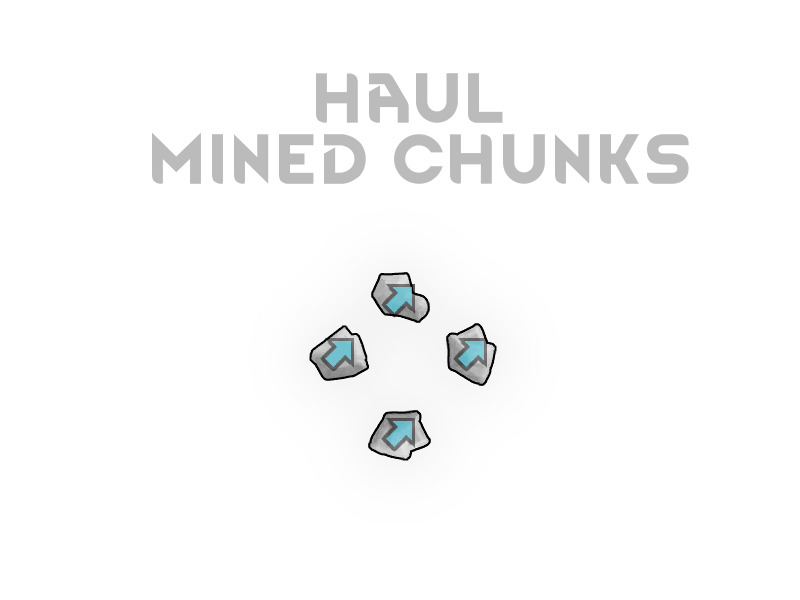
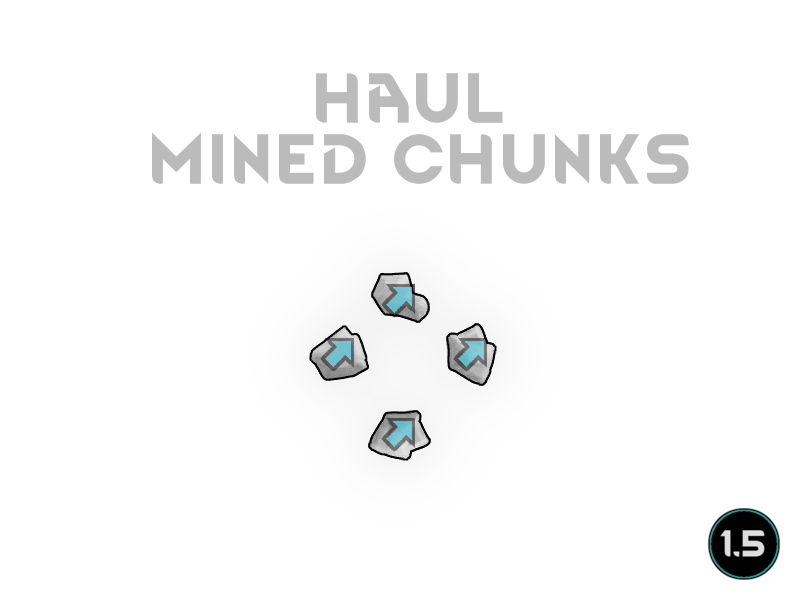
Mod updated for 1.5 and passed autotests

Changed region(s): [[0.875, 0.84, 1.0, 0.99]]

diff --git a/Source/HaulMinedChunks/HaulMinedChunksMod.cs b/Source/HaulMinedChunks/HaulMinedChunksMod.cs
@@ -27,7 +27,7 @@ internal class HaulMinedChunksMod : Mod
     {
         instance = this;
         currentVersion =
-            VersionFromManifest.GetVersionFromModMetaData(ModLister.GetActiveModWithIdentifier("Mlie.HaulMinedChunks"));
+            VersionFromManifest.GetVersionFromModMetaData(content.ModMetaData);
     }
 
     /// <summary>

diff --git a/Source/HaulMinedChunks/Mineable_TrySpawnYield.cs b/Source/HaulMinedChunks/Mineable_TrySpawnYield.cs
@@ -5,7 +5,7 @@ using Verse;
 
 namespace HaulMinedChunks;
 
-[HarmonyPatch(typeof(Mineable), "TrySpawnYield")]
+[HarmonyPatch(typeof(Mineable), "TrySpawnYield", typeof(Map), typeof(bool), typeof(Pawn))]
 internal class Mineable_TrySpawnYield
 {
     private static void Postfix(Mineable __instance, Map map, Pawn pawn)

diff --git a/README.md b/README.md
@@ -1,6 +1,6 @@
 # HaulMinedChunks
 
-![Image](https://i.imgur.com/buuPQel.png)
+![Image](https://i.imgur.com/iCj5o7O.png)
 
 
 Will mark stone-chunks to be hauled when they spawn from mining.
@@ -16,24 +16,26 @@ Safe to add/remove anytime
 Chunks spawn on a random place around the miner there is no simple way of knowing if they spawned from the miner.
 You can however solve it pretty simple by adding a stockpile-zone around the drill that do not accept anything. Any chunk that spawns will then be in the "wrong" zone and will be hauled directly.
 
-![Image](https://i.imgur.com/O0IIlYj.png)
+![Image](https://i.imgur.com/Ds0rBAD.png)
 
 Since modding is just a hobby for me I expect no donations to keep modding. If you still want to show your support you can gift me anything from my https://store.steampowered.com/wishlist/id/Mlie]Wishlist or buy me a cup of tea.
 
-https://ko-fi.com/G2G55DDYD]![Image](https://i.imgur.com/Utx6OIH.png)
+https://ko-fi.com/G2G55DDYD]![Image](https://i.imgur.com/VWG0yff.png)
 
 
-![Image](https://i.imgur.com/PwoNOj4.png)
+![Image](https://i.imgur.com/5xwDG6H.png)
 
 
 
 -  See if the the error persists if you just have this mod and its requirements active.
 -  If not, try adding your other mods until it happens again.
--  Post your error-log using https://steamcommunity.com/workshop/filedetails/?id=818773962]HugsLib and command Ctrl+F12
+-  Post your error-log using https://steamcommunity.com/workshop/filedetails/?id=818773962]HugsLib or the standalone https://steamcommunity.com/sharedfiles/filedetails/?id=2873415404]Uploader and command Ctrl+F12
 -  For best support, please use the Discord-channel for error-reporting.
 -  Do not report errors by making a discussion-thread, I get no notification of that.
 -  If you have the solution for a problem, please post it to the GitHub repository.
+-  Use https://github.com/RimSort/RimSort/releases/latest]RimSort to sort your mods
 
 
 
+https://steamcommunity.com/sharedfiles/filedetails/changelog/2799728059]![Image](https://img.shields.io/github/v/release/emipa606/HaulMinedChunks?label=latest%20version&style=plastic&labelColor=0070cd&color=white)
 
